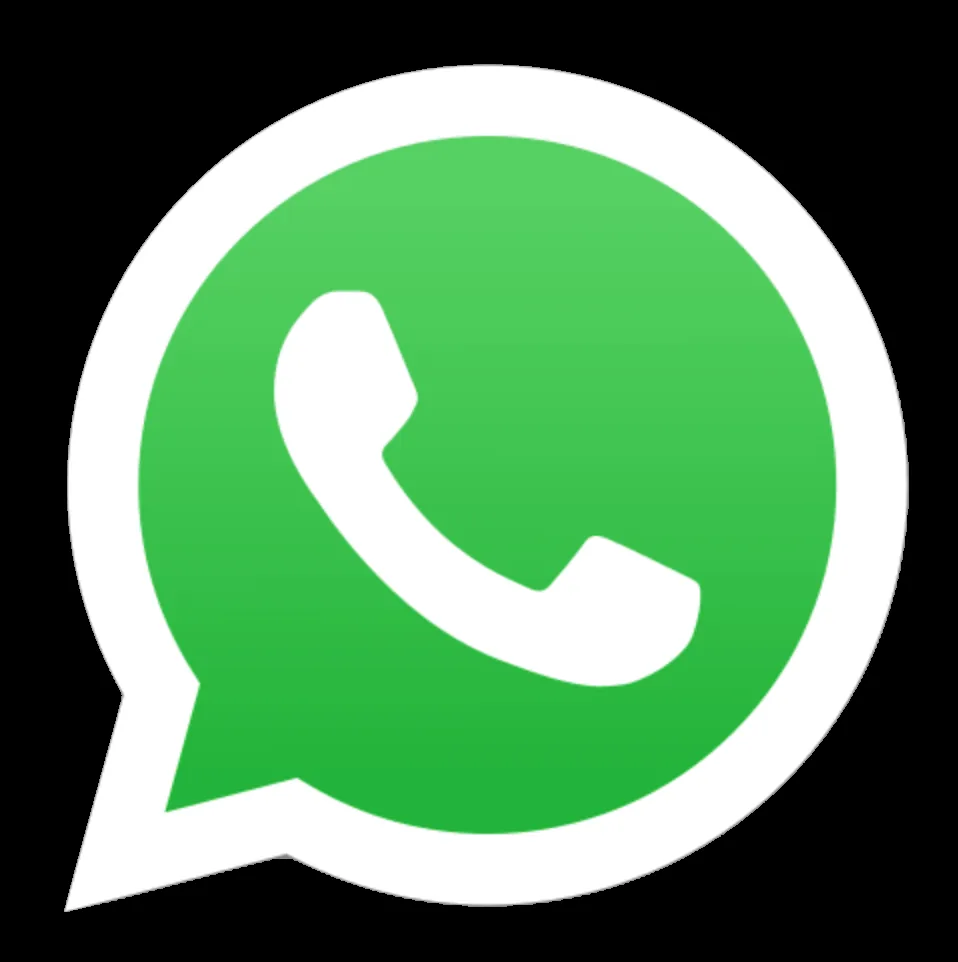
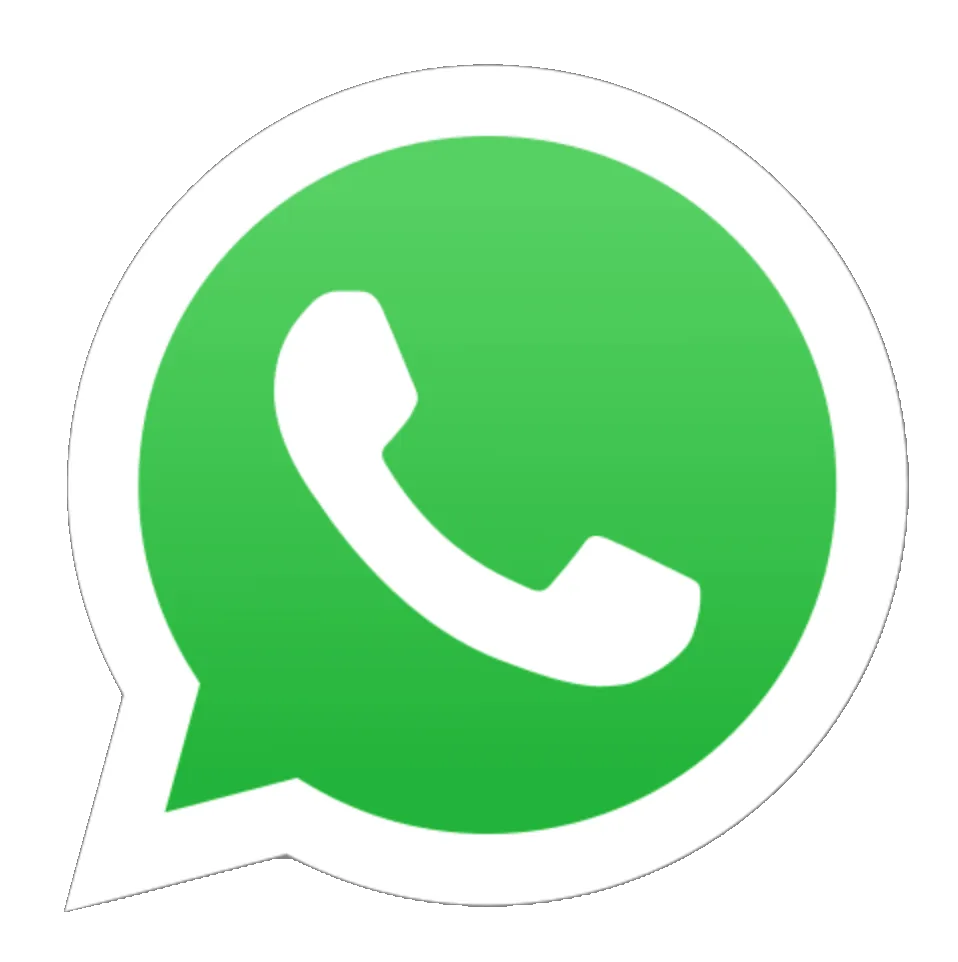
Ajuste imagen cicatrices y botón WhatsApp

diff --git a/micropigmentacion-cicatrices/index.html b/micropigmentacion-cicatrices/index.html
@@ -90,4 +90,4 @@
       ]
     }
   ]
-}</script></head><body><header class="site-header"><div class="wrap nav"><a aria-label="CapilArt BCN - Inicio" class="brand" href="/"><img alt="CapilArt BCN" height="800" src="/images/logo.webp" width="800"/></a><nav aria-label="Navegación principal" class="nav-links"><a href="/micropigmentacion-capilar-densidad/">Densidad</a><a href="/micropigmentacion-capilar-mujer/">Mujer</a><a href="/micropigmentacion-efecto-rapado/">Efecto rapado</a><a href="/micropigmentacion-despues-injerto-capilar/">Después de injerto</a><a href="/casos-micropigmentacion-capilar/">Casos</a><a href="/preguntas-frecuentes-micropigmentacion-capilar/">FAQ</a></nav><button aria-label="Abrir menú" class="menu-btn">☰</button><a class="nav-cta" href="https://wa.me/34696366820?text=Hola%20CapilArt%20BCN,%20me%20gustar%C3%ADa%20realizar%20una%20valoraci%C3%B3n%20de%20micropigmentaci%C3%B3n%20capilar." rel="noopener" target="_blank">Valoración</a></div></header><div aria-label="Migas de pan" class="wrap breadcrumb"><a href="/">Inicio</a> <span aria-hidden="true">›</span> <span>Micropigmentación de cicatrices capilares</span></div><main><section class="page-hero"><div class="wrap"><p class="eyebrow">Cicatrices FUE / FUSS · Barcelona</p><h1>Micropigmentación de cicatrices capilares</h1><p class="lead">La micropigmentación puede reducir el contraste visual de determinadas cicatrices del cuero cabelludo, especialmente cuando el objetivo es integrarlas con el cabello o con una zona rapada.</p><div class="hero-actions"><a class="btn primary" href="https://wa.me/34696366820?text=Hola%20CapilArt%20BCN,%20me%20gustar%C3%ADa%20realizar%20una%20valoraci%C3%B3n%20de%20micropigmentaci%C3%B3n%20capilar." rel="noopener" target="_blank">Solicitar valoración</a><a class="btn secondary" href="/casos-micropigmentacion-capilar/">Ver resultados</a></div><div class="mini-hero"><img alt="Cicatriz lineal capilar antes de micropigmentación" loading="eager" src="/images/cicatriz-fuss-antes.webp"/></div></div></section><section class="section"><div class="wrap content-grid"><article class="prose"><h2>Camuflar no significa borrar una cicatriz</h2><p>La cicatriz seguirá existiendo. La micropigmentación actúa sobre su percepción visual mediante pigmento, intentando reducir la diferencia de color o de cobertura respecto al tejido y cabello de alrededor.</p><h2>Cicatrices FUE</h2><p>La extracción folicular puede dejar pequeños puntos más claros o una menor densidad global en la zona donante. Cuando se lleva el cabello corto, esas diferencias pueden hacerse más visibles y se valoran para determinar si la pigmentación puede integrarlas.</p><h2>Cicatriz lineal FUSS</h2><p>En una cicatriz lineal el reto es diferente: el tejido cicatricial puede retener pigmento de forma distinta a la piel circundante. Por eso conviene trabajar de forma prudente y valorar la respuesta antes de aumentar intensidad.</p><h2>Otras cicatrices del cuero cabelludo</h2><p>La posibilidad de micropigmentar depende del estado, color, relieve y estabilidad de la cicatriz. No todas son buenas candidatas. Si existe inflamación, cambios recientes o dudas sobre el tejido, es prioritario valorarlo médicamente antes de un procedimiento estético.</p><h2>Objetivo: integración</h2><p>La zona pigmentada debe conectarse con el patrón existente. Un camuflaje demasiado oscuro puede llamar más la atención que la propia cicatriz, por lo que la naturalidad exige un planteamiento conservador.</p><h2>¿Por qué una cicatriz requiere un enfoque diferente?</h2><p>El tejido cicatricial no se comporta exactamente igual que la piel no cicatrizada. Su textura, color y capacidad de retención pueden variar, de modo que el trabajo debe ser prudente y la respuesta del pigmento debe observarse entre sesiones. El objetivo es disminuir el contraste, no prometer la desaparición de la marca.</p><h2>Zona donante tras un FUE</h2><p>Después de extracciones numerosas pueden quedar pequeños puntos claros o una diferencia de densidad entre la zona donante y el cabello circundante. En casos adecuados, la micropigmentación puede añadir información visual en el fondo y hacer que esas diferencias llamen menos la atención, especialmente con cortes de cabello compatibles.</p><h2>Qué determina el resultado</h2><p>Influyen el tipo y antigüedad de la cicatriz, su color, relieve, extensión, cabello circundante, tono de piel y longitud habitual del corte. Por eso necesito fotografías claras —y, cuando es posible, una valoración directa— antes de confirmar qué grado de camuflaje puede ser realista.</p><h2>Tratamiento progresivo</h2><p>En tejido cicatricial es especialmente importante no precipitar la intensidad. Se crea una primera integración y se revisa la evolución antes de decidir cuánto reforzar. Esto permite adaptar el trabajo a la respuesta real de esa piel.</p></article><aside class="sidebar"><div class="sidebox"><p class="eyebrow">Valoración personalizada</p><h3>¿Tu caso encaja?</h3><p>La indicación depende de la densidad existente, el tipo de piel, la zona y el objetivo estético. La valoración permite plantear un trabajo realista y progresivo.</p><a class="btn primary" href="https://wa.me/34696366820?text=Hola%20CapilArt%20BCN,%20me%20gustar%C3%ADa%20realizar%20una%20valoraci%C3%B3n%20de%20micropigmentaci%C3%B3n%20capilar." rel="noopener" target="_blank">WhatsApp</a></div><div class="sidebox"><h3>También puede interesarte</h3><a href="/micropigmentacion-capilar-densidad/">Efecto densidad</a><a href="/micropigmentacion-capilar-mujer/">Micropigmentación en mujer</a><a href="/micropigmentacion-despues-injerto-capilar/">Después de injerto</a><a href="/micropigmentacion-cicatrices/">Cicatrices y zona donante</a><a href="/precio-micropigmentacion-capilar-barcelona/">Precio y valoración</a></div></aside></div></section></main><footer class="footer"><div class="wrap"><div class="footer-grid"><div><img alt="CapilArt BCN" height="800" src="/images/logo.webp" style="width:130px" width="800"/><p class="muted">Micropigmentación capilar especializada en naturalidad, integración visual y tratamiento personalizado en Barcelona y alrededores.</p></div><div><h3>Tratamientos</h3><a href="/micropigmentacion-capilar-densidad/">Efecto densidad</a><a href="/micropigmentacion-capilar-mujer/">Micropigmentación para mujer</a><a href="/micropigmentacion-efecto-rapado/">Efecto rapado</a><a href="/micropigmentacion-cicatrices/">Cicatrices</a><a href="/micropigmentacion-despues-injerto-capilar/">Después de injerto</a></div><div><h3>CapilArt BCN</h3><a href="/especialista-micropigmentacion-capilar-barcelona/">Sobre Edgar</a><a href="/precio-micropigmentacion-capilar-barcelona/">Precio y valoración</a><a href="/casos-micropigmentacion-capilar/">Antes y después</a><a href="/preguntas-frecuentes-micropigmentacion-capilar/">Preguntas frecuentes</a><a href="/contacto/">Contacto</a></div></div><small>© 2026 CapilArt BCN · Micropigmentación capilar en Barcelona.</small></div></footer><a aria-label="Solicitar valoración por WhatsApp" class="whatsapp" href="https://wa.me/34696366820?text=Hola%20CapilArt%20BCN,%20me%20gustar%C3%ADa%20realizar%20una%20valoraci%C3%B3n%20de%20micropigmentaci%C3%B3n%20capilar." rel="noopener" target="_blank"><img alt="" height="256" src="/images/whatsapp.webp" width="256"/></a><script defer="" src="/assets/js/seo.js"></script></body></html>
+}</script></head><body><header class="site-header"><div class="wrap nav"><a aria-label="CapilArt BCN - Inicio" class="brand" href="/"><img alt="CapilArt BCN" height="800" src="/images/logo.webp" width="800"/></a><nav aria-label="Navegación principal" class="nav-links"><a href="/micropigmentacion-capilar-densidad/">Densidad</a><a href="/micropigmentacion-capilar-mujer/">Mujer</a><a href="/micropigmentacion-efecto-rapado/">Efecto rapado</a><a href="/micropigmentacion-despues-injerto-capilar/">Después de injerto</a><a href="/casos-micropigmentacion-capilar/">Casos</a><a href="/preguntas-frecuentes-micropigmentacion-capilar/">FAQ</a></nav><button aria-label="Abrir menú" class="menu-btn">☰</button><a class="nav-cta" href="https://wa.me/34696366820?text=Hola%20CapilArt%20BCN,%20me%20gustar%C3%ADa%20realizar%20una%20valoraci%C3%B3n%20de%20micropigmentaci%C3%B3n%20capilar." rel="noopener" target="_blank">Valoración</a></div></header><div aria-label="Migas de pan" class="wrap breadcrumb"><a href="/">Inicio</a> <span aria-hidden="true">›</span> <span>Micropigmentación de cicatrices capilares</span></div><main><section class="page-hero"><div class="wrap"><p class="eyebrow">Cicatrices FUE / FUSS · Barcelona</p><h1>Micropigmentación de cicatrices capilares</h1><p class="lead">La micropigmentación puede reducir el contraste visual de determinadas cicatrices del cuero cabelludo, especialmente cuando el objetivo es integrarlas con el cabello o con una zona rapada.</p><div class="hero-actions"><a class="btn primary" href="https://wa.me/34696366820?text=Hola%20CapilArt%20BCN,%20me%20gustar%C3%ADa%20realizar%20una%20valoraci%C3%B3n%20de%20micropigmentaci%C3%B3n%20capilar." rel="noopener" target="_blank">Solicitar valoración</a><a class="btn secondary" href="/casos-micropigmentacion-capilar/">Ver resultados</a></div><div class="mini-hero cicatriz-hero"><img alt="Cicatriz lineal capilar antes de micropigmentación" loading="eager" src="/images/cicatriz-fuss-antes.webp"/></div></div></section><section class="section"><div class="wrap content-grid"><article class="prose"><h2>Camuflar no significa borrar una cicatriz</h2><p>La cicatriz seguirá existiendo. La micropigmentación actúa sobre su percepción visual mediante pigmento, intentando reducir la diferencia de color o de cobertura respecto al tejido y cabello de alrededor.</p><h2>Cicatrices FUE</h2><p>La extracción folicular puede dejar pequeños puntos más claros o una menor densidad global en la zona donante. Cuando se lleva el cabello corto, esas diferencias pueden hacerse más visibles y se valoran para determinar si la pigmentación puede integrarlas.</p><h2>Cicatriz lineal FUSS</h2><p>En una cicatriz lineal el reto es diferente: el tejido cicatricial puede retener pigmento de forma distinta a la piel circundante. Por eso conviene trabajar de forma prudente y valorar la respuesta antes de aumentar intensidad.</p><h2>Otras cicatrices del cuero cabelludo</h2><p>La posibilidad de micropigmentar depende del estado, color, relieve y estabilidad de la cicatriz. No todas son buenas candidatas. Si existe inflamación, cambios recientes o dudas sobre el tejido, es prioritario valorarlo médicamente antes de un procedimiento estético.</p><h2>Objetivo: integración</h2><p>La zona pigmentada debe conectarse con el patrón existente. Un camuflaje demasiado oscuro puede llamar más la atención que la propia cicatriz, por lo que la naturalidad exige un planteamiento conservador.</p><h2>¿Por qué una cicatriz requiere un enfoque diferente?</h2><p>El tejido cicatricial no se comporta exactamente igual que la piel no cicatrizada. Su textura, color y capacidad de retención pueden variar, de modo que el trabajo debe ser prudente y la respuesta del pigmento debe observarse entre sesiones. El objetivo es disminuir el contraste, no prometer la desaparición de la marca.</p><h2>Zona donante tras un FUE</h2><p>Después de extracciones numerosas pueden quedar pequeños puntos claros o una diferencia de densidad entre la zona donante y el cabello circundante. En casos adecuados, la micropigmentación puede añadir información visual en el fondo y hacer que esas diferencias llamen menos la atención, especialmente con cortes de cabello compatibles.</p><h2>Qué determina el resultado</h2><p>Influyen el tipo y antigüedad de la cicatriz, su color, relieve, extensión, cabello circundante, tono de piel y longitud habitual del corte. Por eso necesito fotografías claras —y, cuando es posible, una valoración directa— antes de confirmar qué grado de camuflaje puede ser realista.</p><h2>Tratamiento progresivo</h2><p>En tejido cicatricial es especialmente importante no precipitar la intensidad. Se crea una primera integración y se revisa la evolución antes de decidir cuánto reforzar. Esto permite adaptar el trabajo a la respuesta real de esa piel.</p></article><aside class="sidebar"><div class="sidebox"><p class="eyebrow">Valoración personalizada</p><h3>¿Tu caso encaja?</h3><p>La indicación depende de la densidad existente, el tipo de piel, la zona y el objetivo estético. La valoración permite plantear un trabajo realista y progresivo.</p><a class="btn primary" href="https://wa.me/34696366820?text=Hola%20CapilArt%20BCN,%20me%20gustar%C3%ADa%20realizar%20una%20valoraci%C3%B3n%20de%20micropigmentaci%C3%B3n%20capilar." rel="noopener" target="_blank">WhatsApp</a></div><div class="sidebox"><h3>También puede interesarte</h3><a href="/micropigmentacion-capilar-densidad/">Efecto densidad</a><a href="/micropigmentacion-capilar-mujer/">Micropigmentación en mujer</a><a href="/micropigmentacion-despues-injerto-capilar/">Después de injerto</a><a href="/micropigmentacion-cicatrices/">Cicatrices y zona donante</a><a href="/precio-micropigmentacion-capilar-barcelona/">Precio y valoración</a></div></aside></div></section></main><footer class="footer"><div class="wrap"><div class="footer-grid"><div><img alt="CapilArt BCN" height="800" src="/images/logo.webp" style="width:130px" width="800"/><p class="muted">Micropigmentación capilar especializada en naturalidad, integración visual y tratamiento personalizado en Barcelona y alrededores.</p></div><div><h3>Tratamientos</h3><a href="/micropigmentacion-capilar-densidad/">Efecto densidad</a><a href="/micropigmentacion-capilar-mujer/">Micropigmentación para mujer</a><a href="/micropigmentacion-efecto-rapado/">Efecto rapado</a><a href="/micropigmentacion-cicatrices/">Cicatrices</a><a href="/micropigmentacion-despues-injerto-capilar/">Después de injerto</a></div><div><h3>CapilArt BCN</h3><a href="/especialista-micropigmentacion-capilar-barcelona/">Sobre Edgar</a><a href="/precio-micropigmentacion-capilar-barcelona/">Precio y valoración</a><a href="/casos-micropigmentacion-capilar/">Antes y después</a><a href="/preguntas-frecuentes-micropigmentacion-capilar/">Preguntas frecuentes</a><a href="/contacto/">Contacto</a></div></div><small>© 2026 CapilArt BCN · Micropigmentación capilar en Barcelona.</small></div></footer><a aria-label="Solicitar valoración por WhatsApp" class="whatsapp" href="https://wa.me/34696366820?text=Hola%20CapilArt%20BCN,%20me%20gustar%C3%ADa%20realizar%20una%20valoraci%C3%B3n%20de%20micropigmentaci%C3%B3n%20capilar." rel="noopener" target="_blank"><img alt="" height="256" src="/images/whatsapp.webp" width="256"/></a><script defer="" src="/assets/js/seo.js"></script></body></html>

diff --git a/assets/css/seo.css b/assets/css/seo.css
@@ -548,3 +548,11 @@
     font-size:14.5px !important;
   }
 }
+
+/* V24 ajuste puntual cicatrices + WhatsApp */
+.cicatriz-hero img{object-position:center 68%;}
+.whatsapp img{background:transparent;}
+@media(max-width:640px){
+  .cicatriz-hero{max-height:320px;}
+  .cicatriz-hero img{height:320px;object-position:center 66%;}
+}
